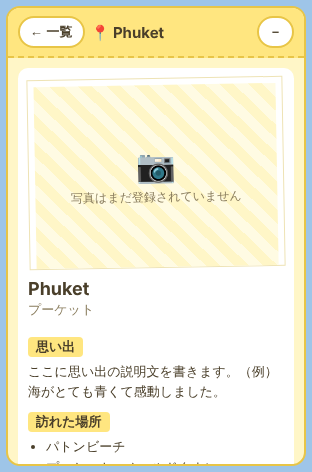
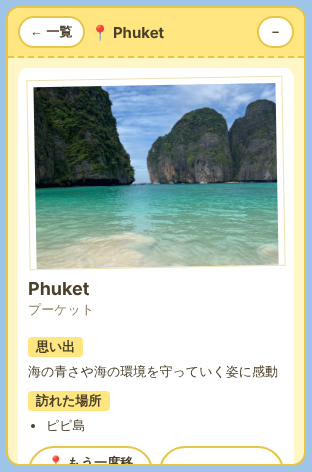
Refresh screenshots with real photos; document Photo/ folder in README
Claude-Session: https://claude.ai/code/session_01BwDcTBGXdGhqDprdQ6fwf1

diff --git a/README.md b/README.md
@@ -48,6 +48,7 @@
 | `ZIP_GUIDE.md` | ZIP の作り方と Re への導入手順 | — |
 | `make-zip.sh` | ZIP を自動で作るスクリプト（Mac / Linux） | — |
 | `index.html` | GitHub Pages 用の紹介ページ | — |
+| `Photo/` | 思い出カードに表示する写真（GitHub Pages で公開して URL で読み込む） | — |
 | `assets/` | 紹介ページ・README 用のスクリーンショット | — |
 | `LICENSE` | ライセンス（CC BY 4.0） | — |
 | `.gitignore` | Git で管理しないファイルの指定 | — |
@@ -82,7 +83,8 @@
 - `photoUrl` が空（`""`）のとき、または画像が読み込めないときは 📷 のプレースホルダーが表示されます。
 - 写真は **インターネット上で公開されている URL（https://〜）** を指定してください。
   たとえばこのリポジトリに画像を置いて GitHub Pages で公開すると、
-  `https://furuhashilab.github.io/Hackathon_Oct_KanokoFujiwara/photos/bangkok.jpg` のような URL で使えます。
+  `https://furuhashilab.github.io/Hackathon_Oct_KanokoFujiwara/Photo/Bangkok.jpg` のような URL で使えます。
+  （フォルダ名・ファイル名の大文字と小文字は URL と完全に一致させてください）
   （ZIP には画像を入れません）
 
 ### スポットを追加する
